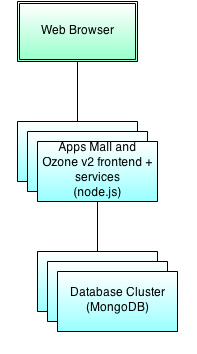
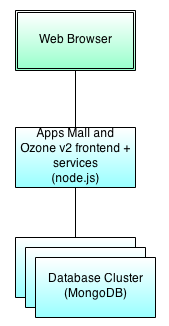
Renamed deployment documentation to be build and deploy. Heavily revised getting started. Wrote documentation for ozone status service Wrote documentation for session providers Revised an asset to be more correct Added content to design documentation to verify that it displays and works as expected 

Changed region(s): [[0.0592, 0.0, 0.9467, 0.9816]]

diff --git a/docs/testing.md b/docs/testing.md
@@ -1,21 +1,33 @@
-##Running unit tests
-Ozone Apps Mall contain test suites for both the service layer and the Angular user interface, as described below:
+##Unit Testing Ozone Platform and Apps Mall
+There are different types of unit tests contained within this project. Some unit tests are specifically for the Ozone Platform components and some are for Apps Mall since Apps Mall is treated as a separate application (althought it is bundled together within this repository).
 
-####Service Layer Unit Tests
-Unit tests are run through jasmine-node and require a running version of the server to verify RESTful services. To run the unit tests simply run ```npm test``` to start the server in a jasmine aware context, run all server side and RESTful unit tests and then end the server's process. Client side tests are currently outstanding and will become integrated into this process in the near future.
+###Ozone Platform Unit Testing
+The following section outlines how to run the Ozone Platform unit tests and the naming conventions used to allow custom Ozone Modules to be unit tested with the rest.
 
-####Angular User Interface Unit Tests
-Angular unit tests are run through the Karma test runner, which launches a separate Chrome browser window.  Make sure that all three Karma-related npm modules have been installed: ```karma```, ```karma-jasmine```, and ```karma-chrome-launcher```.
-
-To run the Angular unit tests run the ```./apps/appsmall/test/test.sh``` script from the ozoneappsmall root directory.  Test results will appear in the terminal window.
-
-(If the above script produces a "karma: command not found" error, then you need to add the Karma bin directory to you path environment variable.  Find the Karma bin directory by typing in ```npm root -g``` to get the Node root pathname and appending ```/karma/bin``` to the root pathname. Add this directory to your path environment variable, and you should be able to run ```karma``` from the command line.)
-
-###Naming convention
+####Naming convention
 There is a naming convention to all spec files for testing. This allows us to treat each type of test separately in both reporting and context. They are and work as follows:
 - *.node.spec.js - This is a type of test that is run against server-side code and does not need a web server started [but it is implied the Ozone API needs to be initialized along with the Ozone Modules].
 - *.restful.spec.js - This is a type of test that is run against the running server's RESTful end points.
-- *.client.spec.js - This is a type of test that is run in parallel to the running server. This type is not yet functional as of this writing but it will be placed into a browser context to execute via terminal.
+- *.client.spec.js - This is a type of test that is run in parallel to the running server. *This type is not yet functional as of this writing but it will be placed into a browser context to execute via terminal.*
 
-###Where we look for specs
-We currently look at the specs/ folder at the root for any tests matching the above naming convention (tests that fall outside of the convention are ignored; server.spec.js is the kick-off for all unit tests). In addition all Ozone Modules which are defined within the configuration are iterated over and each module's specs/ folder is investigated, again, for files with the naming convention above and then executed.
+When unit testing Ozone Modules the naming convention above will be used when looking at the module's specs folder and will automatically run the appropriate tests.
+
+####Running the unit tests
+Unit tests are run through jasmine-node and uses the spec configuration file. To start the unit tests simply run ```npm test```.
+
+The testing will start-up the Ozone Platform Service Container, register all Ozone Modules and execute all found unit tests. This allows for testing of code directly within the service container's context along with testing RESTful services. Client testing will also be enabled through this mechanism but as mentioned above *client unit testing of Ozone Platform code does not yet work*.
+
+###Apps Mall Unit Testing
+This covers how to run the unit tests specific for Apps Mall.
+
+####Apps Mall Service Testing
+The Apps Mall service, which is bundled within the Ozone Platform Service Container, is automatically tested through the Ozone Platform Unit Testing outlined above as it follows the appropriate spec naming convention. So nothing additional needs to be done here.
+
+####Apps Mall Frontend Testing
+Angular unit tests are run through the Karma test runner, which launches a separate Chrome browser window.
+
+Ensure that all three Karma-related npm modules have been installed: ```karma```, ```karma-jasmine```, and ```karma-chrome-launcher```.
+
+To run the Angular unit tests run the ```./apps/appsmall/test/test.sh``` script from the Apps Mall root directory.  Test results will appear in the terminal window.
+
+(If the above script produces a "karma: command not found" error, then you need to add the Karma bin directory to you path environment variable.  Find the Karma bin directory by typing in ```npm root -g``` to get the Node root pathname and appending ```/karma/bin``` to the root pathname. Add this directory to your path environment variable, and you should be able to run ```karma``` from the command line.)

diff --git a/docs/getting-started.md b/docs/getting-started.md
@@ -1,12 +1,45 @@
 ##Getting Started
-These steps will get you started from the git repo to a custom configured version running in your environment.
-####The Setup
-If node.js 0.10.x is installed on the system you can follow these steps to get everything up and running. **Note**: if you're running from a bundle that includes all dependencies then skip to step 6.
+The Quick Start in the previous section is good at simply jumping into things; this guide will help get your environment setup and go through a few additional details that may be helpful.
 
-1. Pull down the latest from the master branch at ```git@github.com:ozone-development/aml-center.git```
-2. Install the necessary global prerequisites via ```npm run-script prerequisites-unix``` or ```npm run-script prerequisites-windows``` (alternatively manually run: ```npm install -g grunt-cli```, ```npm install -g bower```, ```npm install -g jasmine-node```, ```npm install -g karma```, ```npm install -g karma-jasmine```, and ```npm install -g karma-chrome-launcher```)
-3. Run ```npm install```
-4. Run ```bower install```
-5. Run ```grunt build```
-5. Ensure MongoDB is running (```grunt start-mongod``` will start a locally installed MongoDB instance with text searching enabled). Alternatively set the persistence service to use the mock data store.
-6. Start the application with ```npm start```
+###Installing the prerequisites
+The following will go over the prerequisites that are required for running and building the application. There are two ways to get the prerequisites onto your system; you can manually install them or use our shortcut (which should work on most systems). However, both methods require node.js and MongoDB to be installed.
+
+####node.js
+The current application is built to require node.js 0.10.x; it does not function properly under 0.8.x or earlier and is untested against 0.11.x and above (but is expected to work).
+
+To install go to [nodejs.org](http://nodejs.org/) for installation instructions for your target environment.
+
+####MongoDB
+MongoDB 2.4.x and above is required as Apps Mall makes use of its text indexing capabilities. Note that in 2.4.x and 2.5.x text indexing must be manually enabled; in 2.6.x it is enabled by default.
+
+For systems running 2.4.x or 2.5.x see the following MongoDB help page for enabling text search: http://docs.mongodb.org/v2.4/tutorial/enable-text-search/. Note that the textSearchEnabled parameter needs to be added to both mongod and mongos configuration files should that method be used. For developers using 2.4.x or 2.5.x there is a grunt task shortcut that can be used to start a local mongod instance with text searching by simply running ```grunt mongod```.
+
+To install go to [mongodb.org](http://www.mongodb.org/) for installation instructions for your target environment.
+
+####Shortcut
+To make our development easier when moving to new environments we created two shortcuts that should work for a large majority of users. As long as node.js and MongoDB are installed one of these commands will install the rest of the prerequisites on most systems:
+
+* ```npm run-script prerequisites-unix``` will attempt to install the rest of the prerequisites into a unix environment using sudo for the global items.
+* ```npm run-script prerequisites-windows``` will attempt to install the rest of the prerequisites into a windows environment for the global items.
+
+####Manual Install
+The remaining prerequisites are all installed via npm globally onto the system and added to the PATH. Below is a list of the items that need to be installed and their related npm command to do so.
+
+* bower (npm install -g bower)
+* grunt (npm install -g grunt-cli)
+* jasmine-node (npm install -g jasmine-node)
+* karma (npm install -g karma)
+* karma-jasmine (npm install -g karma-jasmine)
+* karma-chrome-launcher (npm install -g karma-chrome-launcher)
+
+###Building
+Since Apps Mall and the Ozone Platform pieces are node.js components and thusly are entirely written in JavaScript there isn't a compile step but there is a concatenation and a minification set of steps contained with a build command.
+
+Once the installation steps are completed then ```grunt build``` needs to be run to combine and minify the necessary files that create the server-side and client-side Ozone Platform APIs.
+
+To get up and running this is all that needs to be done prior to simply running the application. For additional information regarding building and deploying Apps Mall see the [Building and Deploying Apps Mall and Ozone Platform](build-deploy.md) documentation.
+
+###Start
+Now that the installation and the building steps are completed you are ready to go! Simply run ```npm start``` and you'll be on your way.
+
+To run the server-side unit tests to verify that everything is functioning as expected you can also run ```npm test```.

diff --git a/docs/ozone-services-status.md b/docs/ozone-services-status.md
@@ -1,0 +1,33 @@
+##Ozone Status Service
+The status service is simply meant to provide a means to determine what is and isn't started and some additional information that may be useful. It also has an option to serve the full configuration to the client for debugging purposes only (this requires a configuration change AND the required permission; both of which are neither a default to ensure this isn't accidentally enabled).
+
+###/api/status
+This route will return a JSON representation of the following:
+* The current status of the services container
+* A listing of all registered ozoneModules and each state (if applicable)
+* The server's host and port
+* The client configured URLs (if empty then defaults are assumed and used)
+* All registered services within the Ozone.Service() API
+
+####State
+The state is always "Starting" or "Started" (anything else would...well not be served as a status). Once the registered services are told to start the the server finishes establishing it's http and / or https connections it will change to Started; it's unlikely but possible to receive the "Starting" message as the server starts very quickly.
+
+####ozoneModules listing
+This listing will display the data found in the configuration for each module (so the module name and its services that it registers). When the specified services are registered this listing will then include when a module has started. If a module does not have services that it registers it's technically not possible to know for sure when it's finished and ready so it will have a "Presumed" status indicating that we're presuming it's started.
+
+####host and port
+This is exactly as it says; it returns the host and port that node.js is currently hitting against.
+
+####Client configured URLs
+This will include the URLs for Apps Mall, Services, The HUD and App builder. If these are all empty then it's assumed we're in a combined bundle and default, relative paths are used.
+
+####Registered services
+Since anything can register and expose a service via Ozone.Service() each module can specify what services it registers. Then, once these services are registered, it will be output here along with being used to determine a module's status.
+
+###/api/status/config
+This service returns the **full** configuration being used by the service container. Anything in the ```default.js``` and the applicable environment file are combined and served at this address to allow a system administrator to see what the combined configuration looks like and to help with debugging.
+
+Since this service has the potential to serve items we wouldn't normally want served it requires multiple steps to enable and use (nothing about this service is default and it's not even registered unless specified to be so). The following steps can be used to enable and use this RESTful endpoint:
+
+* The ```server``` configuration block needs to have the following property marked true: ```serveFullConfigToSysAdmins``` (it's false by default). This will enable the service container to actually register this RESTful endpoint (otherwise it's not even registered).
+* The user needs to have the system administrator permission associated with their persona ("/Ozone/System/Administration/"). This can be done through manual entry within MongoDB or adding it as part of a default or seeded data.

diff --git a/docs/ozone-session-providers.md b/docs/ozone-session-providers.md
@@ -1,0 +1,81 @@
+##Ozone Platform Service Container and Session Providers
+The service container is essentially an express.js application that allows for session stores to be easily swapped in and out. During the development phase of Apps Mall and the service container we had needs to use in memory, redis and memcached session stores so they were put into their own Ozone Modules to allow anyone to use in their deployments.
+
+###Configuration
+To pick which session provider you want to use and the related settings are controlled via the configuration files (```default.js``` or the specific environment file can be changed to support this).
+
+####Common settings
+There are a couple of common settings that all providers should obey and use. These are located within the ```server``` block and are as follows:
+
+```
+session: {
+    secret: "OzoneSessionSecretHere",
+    key: "OzoneSID",
+    timeout: 86400000
+}
+```
+
+####Specifying which provider to use
+Under the ```ozoneModules``` object is where a session module is specified along with any services it registers. The following is an example as to what the whole ```ozoneModules``` block might look like with a session provider of ```ozone-session-memory```:
+
+```
+ozoneModules: {
+    security: {
+        module: "ozone-services-security",
+        services: ["Security"]
+    },
+    session: {
+        module: "ozone-session-memory",
+        services: []
+    },
+    services: [
+        { module: "ozone-api", services: [], require: false },
+        { module: "applications-mall-services", services: [] },
+        { module: "ozone-services-tagging", services: ["Tag", "TagTopic"] },
+        { module: "ozone-services-applications", services: ["App"] },
+        { module: "ozone-services-persistence", services: ["Persistence"] },
+        { module: "ozone-services-personas", services: ["Personas"] },
+        { module: "ozone-services-messaging", services: [] },
+        { module: "ozone-services-client-configuration", services: [] },
+        { module: "ozone-services-status", services: [] },
+        { module: "ozone-services-importer-exporter", services: ["Importer", "Exporter"] },
+        { module: "ozone-example-module", services: [] }
+    ]
+}
+```
+
+Simply change the module name to whichever one you would like to use.
+
+
+
+###In-Memory Provider
+The in memory provider is essentially what express.js bundles in and is shown in the example as to how to specify it.
+
+###redis Provider
+To use the redis provider will need the necessary connection information added into the ```session``` block of the configuration and should look like the following:
+
+```
+session: {
+    secret: "OzoneSessionSecretHere",
+    key: "OzoneSID",
+    timeout: 86400000,
+    redis: {
+        host: "localhost",
+        port: 6379
+    }
+}
+```
+
+###memcached Provider
+To use the memcached provider will need the necessary connection information added into the ```session``` block of the configuration and should look like the following:
+
+```
+session: {
+    secret: "OzoneSessionSecretHere",
+    key: "OzoneSID",
+    timeout: 86400000,
+    memcached: {
+        hosts: ["localhost:11211"]
+    }
+}
+```

diff --git a/README.md b/README.md
@@ -1,18 +1,19 @@
 #Apps Mall
 The Apps Mall project provides access to, and facilitates the discovery of, web applications through a store front. Apps Mall is built on top of the Ozone Platform Service Container and various Ozone Services that provide modularity and an API all services can consume and export at each level (server-side, RESTful and client-side API levels).
 
-##Requirements
-The requirements below are required to go from cloning the repository to running the application and unit tests. The last 3 requirements (jasmine-node, karma-jarmine and karma-chrome-launcher) are ONLY required if you wish you run the unit tests. The only exception in this list is MongoDB can be replaced with an in-memory mock data store.
+##Prerequisites
+The requirements below are required to go from cloning the repository to running the application and unit tests. The last 4 prerequisites (jasmine-node, karma, karma-jarmine and karma-chrome-launcher) are ONLY required if you wish you run the unit tests. The only exception in this list is MongoDB can be replaced with an in-memory mock data store.
 * node.js 0.10.x
 * bower (npm install -g bower)
 * grunt (npm install -g grunt-cli)
 * MongoDB 2.4.x or higher with text searching enabled
 * jasmine-node (npm install -g jasmine-node)
+* karma (npm install -g karma)
 * karma-jasmine (npm install -g karma-jasmine)
 * karma-chrome-launcher (npm install -g karma-chrome-launcher)
 
 ##Quick Start
-If the requirements are all installed then follow these 4 steps to quickly get up and running.
+If the requirements are all installed then follow these 4 steps to quickly get up and running (if not then read the [Getting Started](docs/getting-started.md) to make sure your environment is setup).
 1. Run ```npm install```
 2. Run ```bower install```
 3. Ensure MongoDB is running (```grunt mongod``` is a quick shortcut to start mongod with text indexing)
@@ -27,7 +28,7 @@ The documentation below outlines everything needed to configure, deploy, extend 
 * [Getting Started](docs/getting-started.md)
 * [Architecture Design](docs/design.md)
 * [Configuring Apps Mall and Ozone Platform](docs/configuration.md)
-* [Deploying Apps Mall and Ozone Platform](docs/deployment.md)
+* [Building and Deploying Apps Mall and Ozone Platform](docs/build-deploy.md)
 * [Ozone Platform API](docs/ozone-api.md)
 * [Creating a new Ozone Module](docs/creating-ozone-module.md)
 * Bundled Ozone Platform Services

diff --git a/docs/creating-ozone-module.md b/docs/creating-ozone-module.md
@@ -1,10 +1,12 @@
 ##Creating an Ozone Service Module
-The new architecture of the Ozone Platform offers a modular approach not all that dissimilar to hapi. To demonstrate how this works let's explore an example ozone module.
+The new architecture of the Ozone Platform offers a modular approach not all that dissimilar to hapi.js. To demonstrate how this works let's explore an example ozone module.
 
+###The Setup
 First we create a new folder called ```ozone-example-module``` and place it inside of the ```ozone-modules``` folder. This is where all Ozone modules exist.
 
 Then let's set up an appropriate ```main.js``` and ```package.json``` files. The ```package.json``` will point to ```main.js``` to allow execution without specifying a script name from within. This allows the ```require("./ozone-modules/ozone-example-module")``` to work.
 
+###The Code
 Now we're all set up so let's write our module! Inside of ```main.js``` we want to export a function which gets executed as part of the Ozone module registration process which will accept a callback and the server-side Ozone API. An example implementation for ```main.js``` is as follows:
 
 ```
@@ -19,6 +21,7 @@ Now we're all set up so let's write our module! Inside of ```main.js``` we want 
 
 This tells Ozone that we want to register a service that handles calls to ```/api/example/``` and respond with an "Example module here" message.
 
-There is one step left. To ensure we REALLY want to execute a module (thusly allowing a bundle to contain more modules than what is run) we need to add it to the list of modules to execute on start-up. Simply open the configuration's environment file that you wish to modify (or change it in default.js to apply to all environments) and add your module's name to the ```OzoneModules``` array already defined within.
+###The Configuration
+There is one step left. To ensure we REALLY want to execute a module (multiple modules can be bundled but left unused in the Ozone Platform Service Container) we need to add it to the list of modules to execute on start-up. Simply open the configuration's environment file that you wish to modify (or change it in default.js to apply to all environments) and add your module's name to the ```ozoneModules``` array already defined within.
 
 That's it!

diff --git a/docs/design.md b/docs/design.md
@@ -1,0 +1,19 @@
+#Apps Mall and Ozone Platform Architecture Design
+The Apps Mall project is comprised of several components all hosted by node.js with optional deployment strategies depending on the target environment. This document outlines the overall design of the project, how its structured and the various deployment strategies that are possible.
+
+##Contents
+* [Overview](#overview)
+    * [Apps Mall and Ozone Platform Default Bundle](#overviewDefaultBundle)
+    * [Apps Mall and Ozone Platform Tiered](#overviewTiered)
+    * [Ozone Platform Services](#overviewOzoneServices)
+
+##<a name="overview"></a>Overview
+
+###<a name="overviewDefaultBundle"></a>Apps Mall and Ozone Platform Default Bundle
+[<div style="width: 120px; margin: 0 auto;">![default bundle](assets/appsmall-overview-default.png)</div>](assets/appsmall-overview-default.png)
+
+###<a name="overviewTiered"></a>Apps Mall and Ozone Platform Tiered
+[<div style="width: 500px; margin: 0 auto;">![default bundle](assets/appsmall-overview-production.png)</div>](assets/appsmall-overview-production.png)
+
+###<a name="overviewOzoneServices"></a>Ozone Platform Services
+[<div style="width: 500px; margin: 0 auto;">![default bundle](assets/ozone-v2-services-overview.png)</div>](assets/ozone-v2-services-overview.png)
